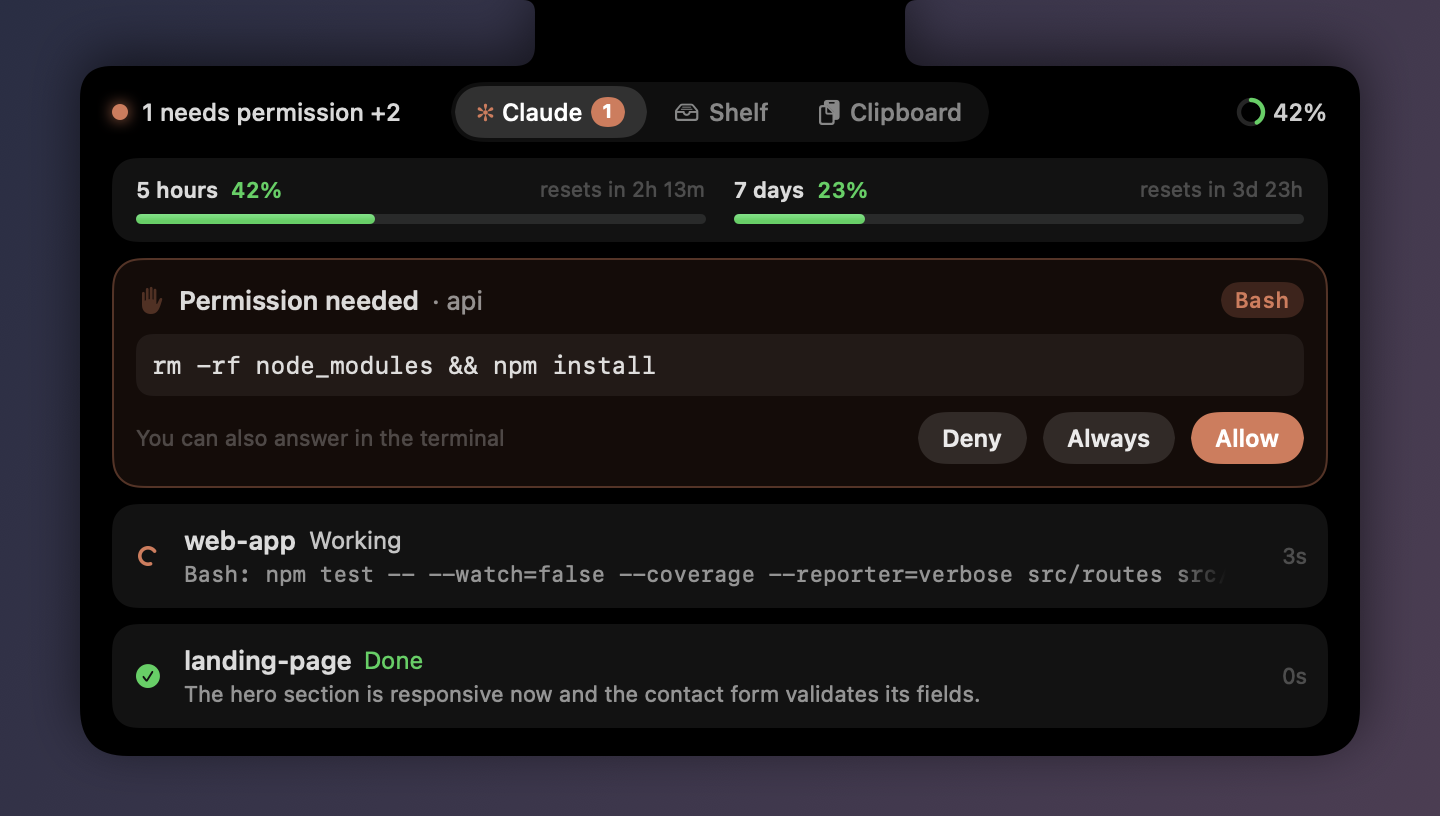
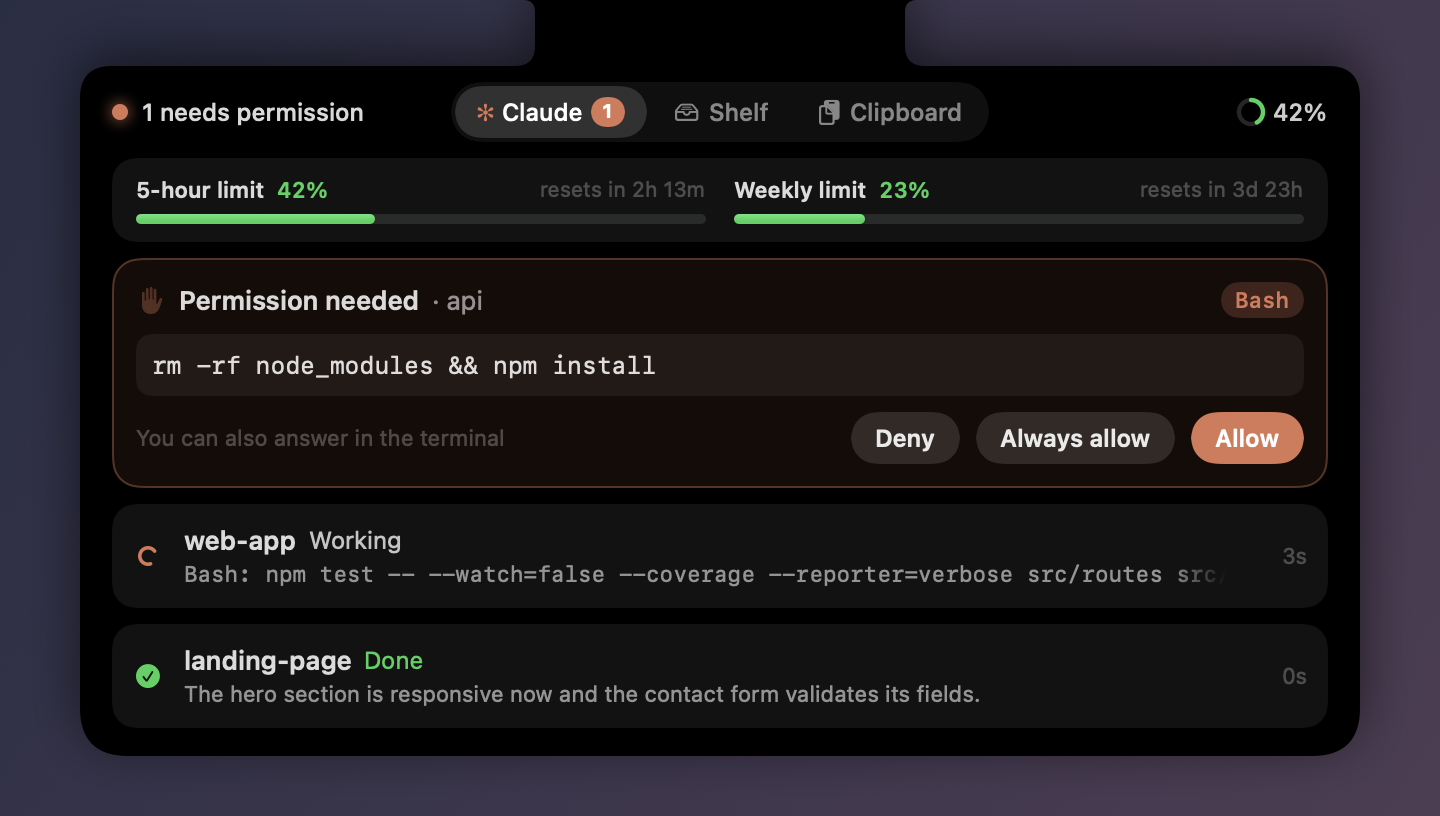
Clearer words in English and Turkish
- The mascot says one full sentence per fact: "5-hour limit: 52% used",
  "Weekly limit: 23% used", "web-app finished 2m ago", instead of
  "Limit: 5h 52% · week 23%"
- Usage bars read "5-hour limit" and "Weekly limit"; Turkish puts the
  percent sign first ("%42")
- The panel headline reads "1 needs permission · 2 more", or just the
  first part where it doesn't fit beside the tabs
- The menu says "Connect Claude Code" instead of "Install Hooks"
- Smaller fixes: "Always allow", "Downloaded file", "Not seen yet",
  "No Claude session running", and more natural Turkish throughout
- Version 1.1.1

diff --git a/Sources/NotchHub/Notch/NotchRootView.swift b/Sources/NotchHub/Notch/NotchRootView.swift
@@ -336,7 +336,7 @@ private struct DropZones: View {
         HStack(spacing: 10) {
             switch kind {
             case .files:
-                DropZone(title: String(localized: "Add to Shelf"), detail: String(localized: "Keeps the path, never copies the file"),
+                DropZone(title: String(localized: "Add to Shelf"), detail: String(localized: "The file stays where it is"),
                          symbol: "tray.and.arrow.down.fill", types: [.fileURL]) {
                     receiveFiles($0, false)
                 }
@@ -480,10 +480,10 @@ struct ClaudeHeadline: View {
         HStack(spacing: 7) {
             if let first = sessions.first {
                 StatusIndicator(status: first.status)
-                OneLine {
-                    Text(verbatim: Self.summary(sessions))
-                        .font(.system(size: 12, weight: .medium))
-                        .foregroundStyle(.white.opacity(0.85))
+                // The full summary when it fits beside the tabs, else just the most urgent group.
+                ViewThatFits(in: .horizontal) {
+                    headline(Self.summary(sessions)).fixedSize()
+                    OneLine { headline(Self.summary(sessions, short: true)) }
                 }
             } else {
                 Text("✻").font(.system(size: 13, weight: .bold)).foregroundStyle(Color.claude)
@@ -497,12 +497,18 @@ struct ClaudeHeadline: View {
 
     /// Short enough to sit beside the tabs: "web-app · Working" for one session,
     /// otherwise the most urgent group and how many others there are ("1 needs permission +2").
-    static func summary(_ sessions: [ClaudeSession]) -> String {
+    private func headline(_ text: String) -> some View {
+        Text(verbatim: text)
+            .font(.system(size: 12, weight: .medium))
+            .foregroundStyle(.white.opacity(0.85))
+    }
+
+    static func summary(_ sessions: [ClaudeSession], short: Bool = false) -> String {
         guard let first = sessions.first else { return "" }
         if sessions.count == 1 { return "\(ClaudeStore.shortLabel(first.label)) · \(first.status.title)" }
         let urgent = sessions.filter { $0.status == first.status }.count
         let head = "\(urgent) \(first.status.title.localizedLowercase)"
-        return urgent == sessions.count ? head : "\(head) +\(sessions.count - urgent)"
+        return urgent == sessions.count || short ? head : String(localized: "\(head) · \(sessions.count - urgent) more")
     }
 }
 

diff --git a/Sources/NotchHub/Views/UsageViews.swift b/Sources/NotchHub/Views/UsageViews.swift
@@ -33,11 +33,11 @@ struct UsageRing: View {
                         .rotationEffect(.degrees(-90))
                 }
                 .frame(width: 12, height: 12)
-                Text(verbatim: "\(Int(window.usedPercentage.rounded()))%")
+                Text(percentText(window.usedPercentage))
                     .font(.system(size: 12, weight: .medium).monospacedDigit())
                     .foregroundStyle(.white.opacity(0.8))
             }
-            .help(String(localized: "Claude 5-hour usage · resets in \(window.resetText())"))
+            .help(String(localized: "5-hour limit: \(Int(window.usedPercentage.rounded()))% used · resets in \(window.resetText())"))
             .animation(.smooth, value: window.usedPercentage)
         }
     }
@@ -52,8 +52,8 @@ struct UsageSummary: View {
         if !current.isEmpty {
             TimelineView(.periodic(from: .now, by: 30)) { context in
                 HStack(spacing: 14) {
-                    if let window = current.fiveHour { bar(String(localized: "5 hours"), window, now: context.date) }
-                    if let window = current.sevenDay { bar(String(localized: "7 days"), window, now: context.date) }
+                    if let window = current.fiveHour { bar(String(localized: "5-hour limit"), window, now: context.date) }
+                    if let window = current.sevenDay { bar(String(localized: "Weekly limit"), window, now: context.date) }
                 }
             }
             .padding(.horizontal, 12)
@@ -66,7 +66,7 @@ struct UsageSummary: View {
         VStack(alignment: .leading, spacing: 5) {
             HStack(spacing: 6) {
                 Text(verbatim: title).font(.system(size: 11, weight: .semibold))
-                Text(verbatim: "\(Int(window.usedPercentage.rounded()))%")
+                Text(percentText(window.usedPercentage))
                     .font(.system(size: 11, weight: .semibold).monospacedDigit())
                     .foregroundStyle(window.level)
                 Spacer(minLength: 4)
@@ -86,4 +86,9 @@ struct UsageSummary: View {
         }
         .frame(maxWidth: .infinity)
     }
+}
+
+/// "42%" in English, "%42" in Turkish.
+func percentText(_ value: Double) -> String {
+    String(localized: "\(Int(value.rounded()))%")
 }

diff --git a/Sources/NotchHub/Views/ClaudeTab.swift b/Sources/NotchHub/Views/ClaudeTab.swift
@@ -17,7 +17,7 @@ struct ClaudeTab: View {
                             if store.hooksInstalled {
                                 Text("Run claude in a terminal and it shows up here.")
                             } else {
-                                Text("Install the hooks from the NotchHub menu in the menu bar.")
+                                Text("Connect Claude Code from the NotchHub menu in the menu bar.")
                             }
                         }
                         .font(.system(size: 11))
@@ -107,7 +107,7 @@ private struct PermissionCard: View {
                 Button("Deny") { answer(.deny) }
                     .buttonStyle(PillButtonStyle(kind: .secondary))
                 if request.suggestions != nil {
-                    Button("Always") { answer(.allowAlways) }
+                    Button("Always allow") { answer(.allowAlways) }
                         .buttonStyle(PillButtonStyle(kind: .secondary))
                         .help(String(localized: "Allow and save the rule Claude Code suggests"))
                 }
@@ -146,7 +146,7 @@ private struct SessionRow: View {
                     Text(verbatim: session.status.title).font(.system(size: 12)).foregroundStyle(session.status.tint).fixedSize()
                     if session.unseen {
                         Circle().fill(session.status.tint).frame(width: 5, height: 5)
-                            .help(String(localized: "Not looked at yet"))
+                            .help(String(localized: "Not seen yet"))
                     }
                 }
                 OneLine {
@@ -185,7 +185,7 @@ private struct SessionRow: View {
         .contentShape(RoundedRectangle(cornerRadius: 12))
         .onTapGesture { jump?() }
         .onHover { isHovering in withAnimation(.snappy(duration: 0.15)) { hovering = isHovering } }
-        .help(isFinished ? (session.lastMessage ?? "") : (jump == nil ? "" : String(localized: "Click to go to its terminal")))
+        .help(isFinished ? (session.lastMessage ?? "") : (jump == nil ? "" : String(localized: "Click to open its terminal")))
     }
 
     /// The second line: the current tool while working, the answer's first line when finished.

diff --git a/Sources/NotchHub/Views/DesktopPet.swift b/Sources/NotchHub/Views/DesktopPet.swift
@@ -15,16 +15,16 @@ enum PetBrain {
     /// The things worth knowing, shown one per click: Claude, plan usage, the latest finish.
     @MainActor
     static func info(store: ClaudeStore, now: Date = Date()) -> [String] {
-        var lines = [store.statusSummary ?? String(localized: "Claude is idle")]
+        var lines = [store.statusSummary ?? String(localized: "No Claude session running")]
 
+        // One full sentence per limit, so it reads on its own in the bubble.
         let limits = store.limits.current(at: now)
-        var usage: [String] = []
-        if let window = limits.fiveHour { usage.append(String(localized: "5h \(Int(window.usedPercentage.rounded()))%")) }
-        if let window = limits.sevenDay { usage.append(String(localized: "week \(Int(window.usedPercentage.rounded()))%")) }
-        lines.append(String(localized: "Limit: \(usage.isEmpty ? String(localized: "no data yet") : usage.joined(separator: " · "))"))
+        if let window = limits.fiveHour { lines.append(String(localized: "5-hour limit: \(Int(window.usedPercentage.rounded()))% used")) }
+        if let window = limits.sevenDay { lines.append(String(localized: "Weekly limit: \(Int(window.usedPercentage.rounded()))% used")) }
+        if limits.fiveHour == nil && limits.sevenDay == nil { lines.append(String(localized: "Usage: no data yet")) }
 
         if let finished = store.sessions.values.filter({ $0.status == .done }).max(by: { $0.statusSince < $1.statusSince }) {
-            lines.append(String(localized: "Last done: \(ClaudeStore.shortLabel(finished.label)) · \(shortElapsed(from: finished.statusSince, to: now)) ago"))
+            lines.append(String(localized: "\(ClaudeStore.shortLabel(finished.label)) finished \(shortElapsed(from: finished.statusSince, to: now)) ago"))
         }
         return lines
     }

diff --git a/Sources/NotchHub/App.swift b/Sources/NotchHub/App.swift
@@ -130,12 +130,12 @@ final class AppDelegate: NSObject, NSApplicationDelegate, NSMenuDelegate {
 
         let installed = HookInstaller.isInstalled()
         let status = NSMenuItem(
-            title: installed ? String(localized: "Claude Code hooks installed") : String(localized: "Claude Code hooks not installed"),
+            title: installed ? String(localized: "Connected to Claude Code") : String(localized: "Not connected to Claude Code"),
             action: nil, keyEquivalent: ""
         )
         status.isEnabled = false
         menu.addItem(status)
-        menu.addItem(withTitle: installed ? String(localized: "Remove Hooks") : String(localized: "Install Hooks"),
+        menu.addItem(withTitle: installed ? String(localized: "Disconnect Claude Code") : String(localized: "Connect Claude Code"),
                      action: #selector(toggleHooks), keyEquivalent: "").target = self
         menu.addItem(.separator())
 
@@ -160,7 +160,7 @@ final class AppDelegate: NSObject, NSApplicationDelegate, NSMenuDelegate {
                 try HookInstaller.install(hookPath: hookPath)
             }
         } catch {
-            showError(String(localized: "Could not change the hooks"), error)
+            showError(String(localized: "Couldn't change the Claude Code connection"), error)
         }
         claude.hooksInstalled = HookInstaller.isInstalled()
     }
@@ -190,7 +190,7 @@ final class AppDelegate: NSObject, NSApplicationDelegate, NSMenuDelegate {
                 try SMAppService.mainApp.register()
             }
         } catch {
-            showError(String(localized: "Could not change Open at Login"), error)
+            showError(String(localized: "Couldn't change Open at Login"), error)
         }
     }
 

diff --git a/Tests/NotchHubTests/PetTests.swift b/Tests/NotchHubTests/PetTests.swift
@@ -55,11 +55,11 @@ import Testing
 
     @Test func factsComeOneAtATimeInAFixedOrder() {
         let facts = PetBrain.info(store: store(working: true, usage: 42))
-        #expect(facts == ["my-app · Working", "Limit: 5h 42%"])
+        #expect(facts == ["my-app · Working", "5-hour limit: 42% used"])
     }
 
     @Test func idleWithoutData() {
-        #expect(PetBrain.info(store: store()) == ["Claude is idle", "Limit: no data yet"])
+        #expect(PetBrain.info(store: store()) == ["No Claude session running", "Usage: no data yet"])
     }
 
     @Test func latestFinishIsNamed() {
@@ -72,7 +72,7 @@ import Testing
         }
         let lines = PetBrain.info(store: store, now: start.addingTimeInterval(170))
         #expect(lines[0] == "2 done")
-        #expect(lines[2] == "Last done: my-app · 2m ago")
+        #expect(lines[2] == "my-app finished 2m ago")
     }
 
     @Test func napsAfterAWhile() {

diff --git a/Sources/NotchHub/Notch/NotchModel.swift b/Sources/NotchHub/Notch/NotchModel.swift
@@ -68,8 +68,8 @@ enum PeekReason: Equatable {
         case .claudeDone(let label), .question(let label): label
         case .copied: String(localized: "Copied")
         case .screenshot: String(localized: "Screenshot")
-        case .downloaded(let name): name.count <= 22 ? name : String(localized: "Download")
-        case .usage(let percent): String(localized: "Claude limit \(percent)%")
+        case .downloaded(let name): name.count <= 22 ? name : String(localized: "Downloaded file")
+        case .usage(let percent): String(localized: "5-hour limit \(percent)% used")
         case .permission, .summoned: nil
         }
     }

diff --git a/Tests/NotchHubTests/QuestionTests.swift b/Tests/NotchHubTests/QuestionTests.swift
@@ -137,7 +137,7 @@ import Testing
         #expect(PeekReason.question("api").detail == nil)
         #expect(PeekReason.claudeDone("api").detail == nil)
         #expect(PeekReason.copied("https://example.com/a").detail == "link")
-        #expect(PeekReason.downloaded("a-very-long-file-name-from-the-web.zip").title == "Download")
+        #expect(PeekReason.downloaded("a-very-long-file-name-from-the-web.zip").title == "Downloaded file")
         let short = PeekReason.claudeDone("api").wingWidth
         let long = PeekReason.claudeDone("NotchHub macOS").wingWidth
         #expect(long > short)

diff --git a/Tests/NotchHubTests/ShelfClipboardTests.swift b/Tests/NotchHubTests/ShelfClipboardTests.swift
@@ -61,7 +61,7 @@ private func hook(_ name: String, session: String = "s1") -> HookEvent {
         store.handle(hook("Notification", session: "c"))
         let waiting = HookEvent(json: Data(#"{"hook_event_name":"Notification","session_id":"b","notification_type":"elicitation_dialog"}"#.utf8))!
         store.handle(waiting)
-        #expect(ClaudeHeadline.summary(store.sortedSessions) == "1 waiting for you +1")
+        #expect(ClaudeHeadline.summary(store.sortedSessions) == "1 waiting for you · 1 more")
     }
 }
 
